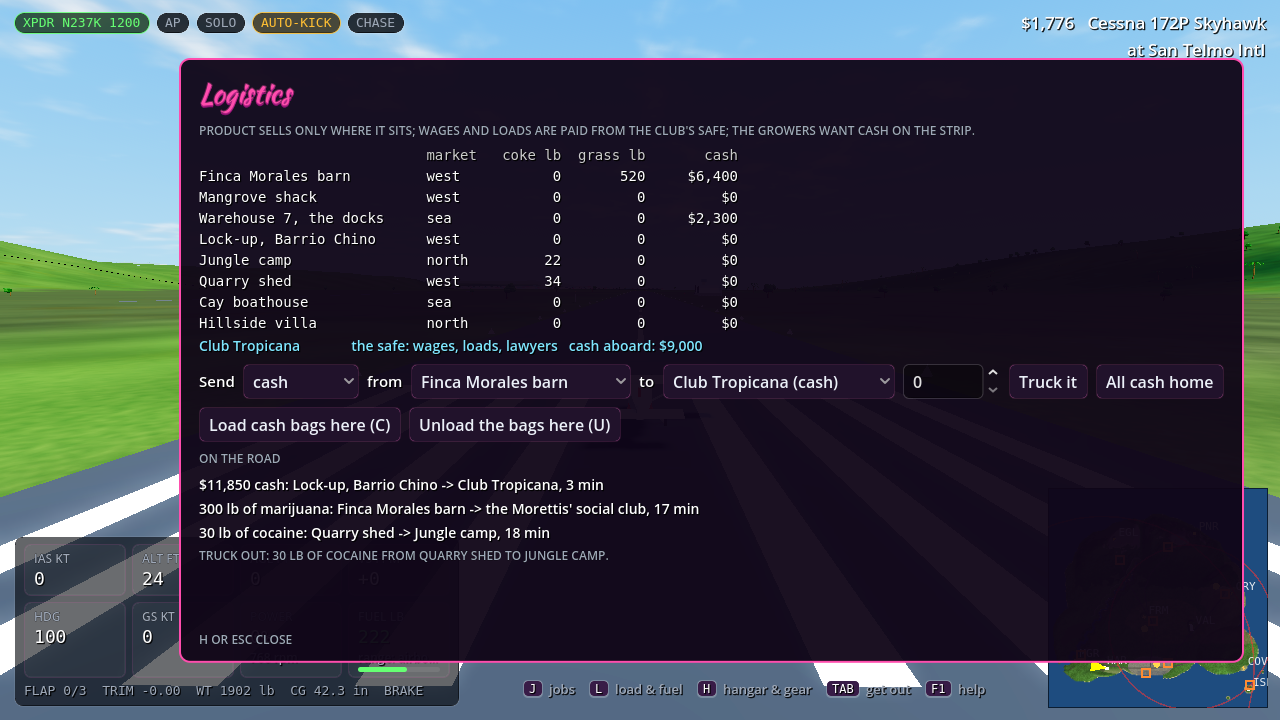
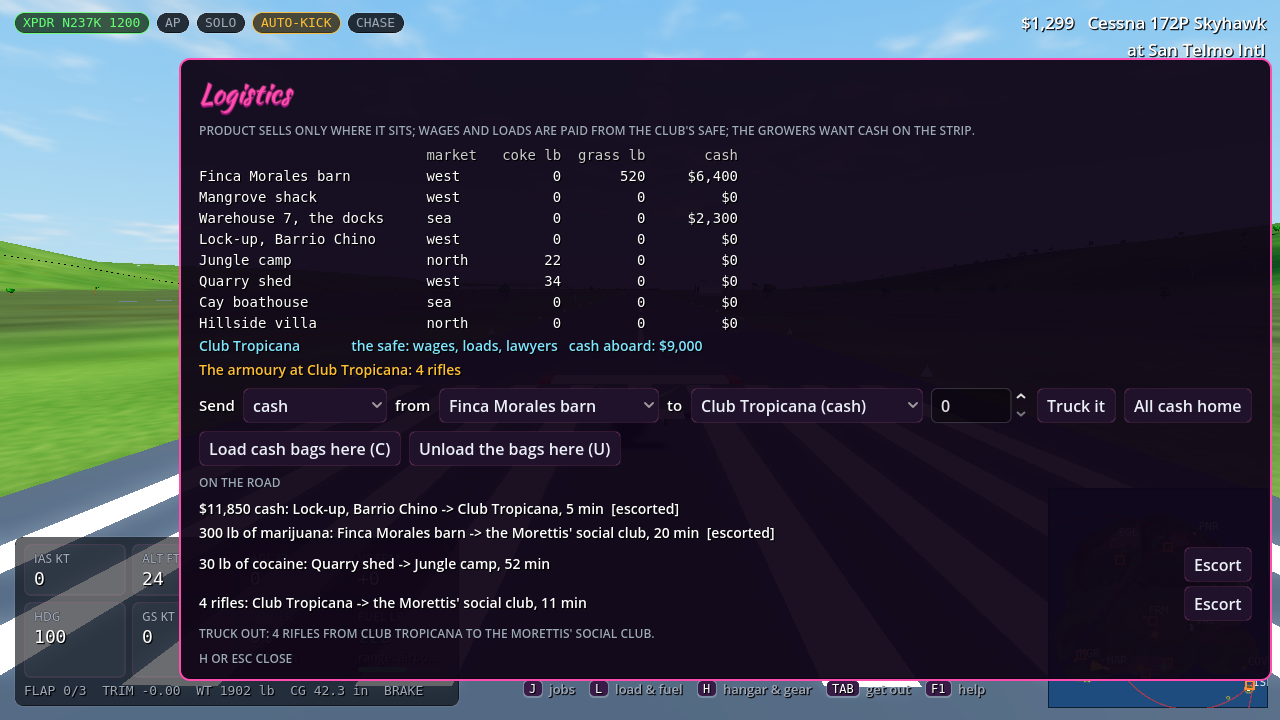
Trucks you can read and protect: colours by cargo, one-click escort
- truck_info: what a truck of ours carries (cash, product, guns, a buyer's
  lot, a load) and where it's going; in the runner's snapshot, drawn on
  the minimap and the desks' map with a line to the destination and a
  ring when it has pulled over (the law's map stays plain dots)
- escort_truck {job_id}: the nearest free squad of ours rides with it;
  the logistics panel's Escort button; escorted trucks marked
- tests; README, DESIGN 22; logistics screenshot

Claude-Session: https://claude.ai/code/session_015gWc7K2PCQMPbBXePYB8M7

diff --git a/games/skyrunner-godot/docs/DESIGN.md b/games/skyrunner-godot/docs/DESIGN.md
@@ -684,6 +684,10 @@ In the 1980s cocaine trade, the product and the money were both physical, heavy 
 - **Our own vans are quieter.** A van between our own places warms its stash a third as much as a load off an aircraft, and a cash truck to the club leaves nothing to tail.
 - **Losses are recorded by cause** (`lost_by`): seized, hijacked, raided, bust.
 
+**Seeing and guarding them**
+- **The maps.** The runner's maps (minimap and desks) colour our trucks by what they carry (`truck_info`): cash, product, guns, a buyer's lot, a load off an aircraft. Each has a line to its destination, and a ring when it has pulled over. The task force's map still shows plain dots.
+- **Escorts.** `escort_truck {job_id}` (pilot, boss, lieutenant; the panel's **Escort** button) orders the nearest free squad of ours to ride with the truck. A checkpoint then gets a fight instead of a search, and an ambush meets guns.
+
 **Guns** (`Logistics.send_guns`)
 - **One armoury, one place.** It's `Arsenal.cache` (a stash), or the club.
 - **Gun sales** (to the Morettis, the Company, Los Cuervos) are trucked from the armoury to the buyer's meet and settled there, rifle by rifle against the buyer's appetite. The cash, and whatever the buyer didn't want, rides back.

diff --git a/games/skyrunner-godot/README.md b/games/skyrunner-godot/README.md
@@ -238,6 +238,9 @@ Beyond the prototype:
   - Guns are physical too: the armoury sits in one place (the club, or a stash). A gun sale is trucked
     to the buyer; the whole armoury can be moved. A seized gun truck arms the police, a hijacked one
     Los Cuervos.
+  - The maps colour our trucks by what they carry (cash green, product white, guns red, a buyer's lot
+    amber) with a line to where each is going; a ring marks one pulled over for police ahead. Each truck
+    in the panel has an **Escort** button: the nearest free squad of ours rides with it.
   - The AI boss runs regular pickups and moves product to where the dealers are.
 - **The trade: dealers, buyers, and grass before cocaine.**
   - You start the way the 1970s smugglers did: cheap, bulky loads of grass from the farm strips into your stash.
